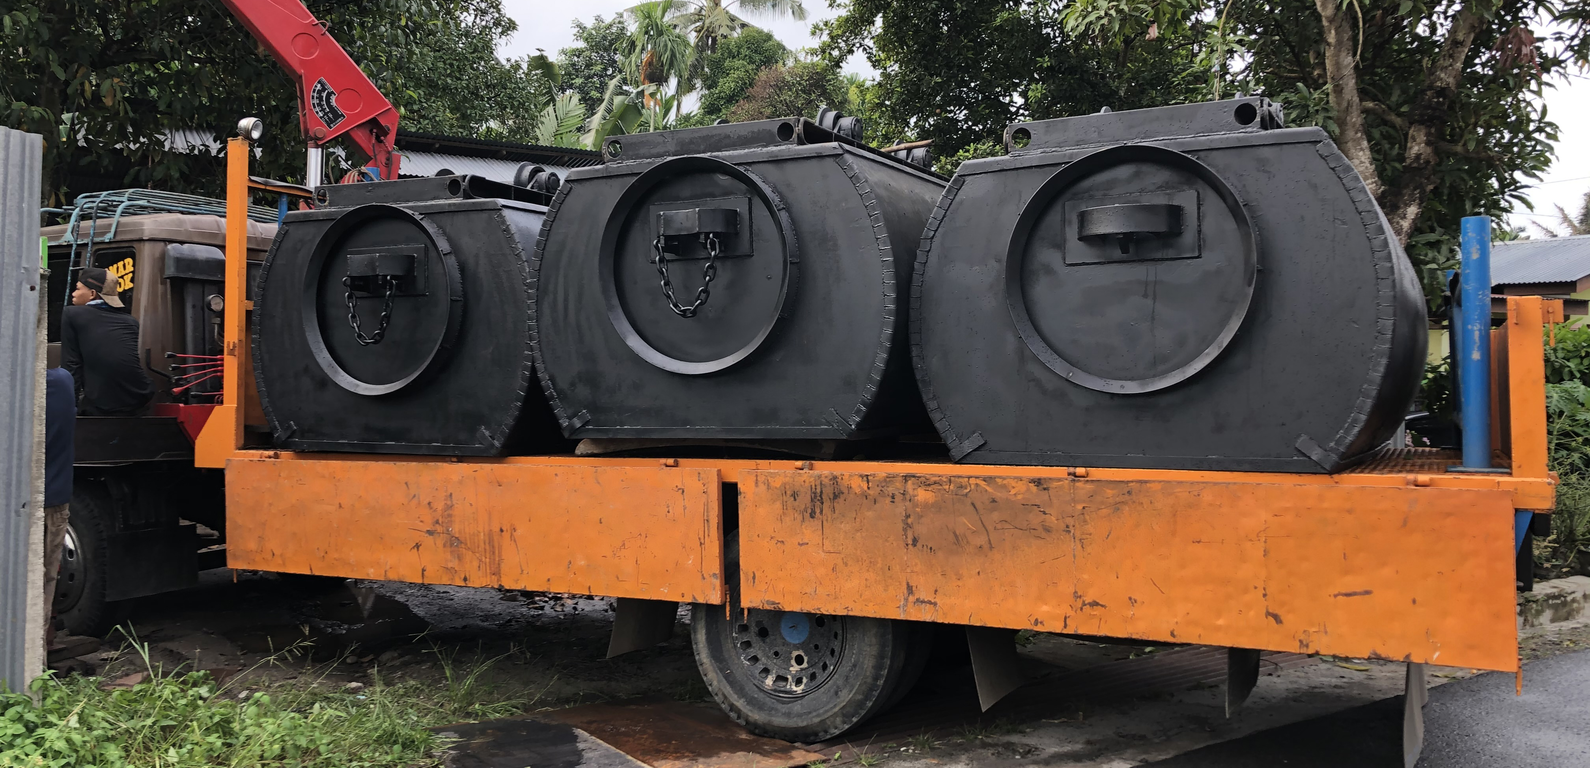
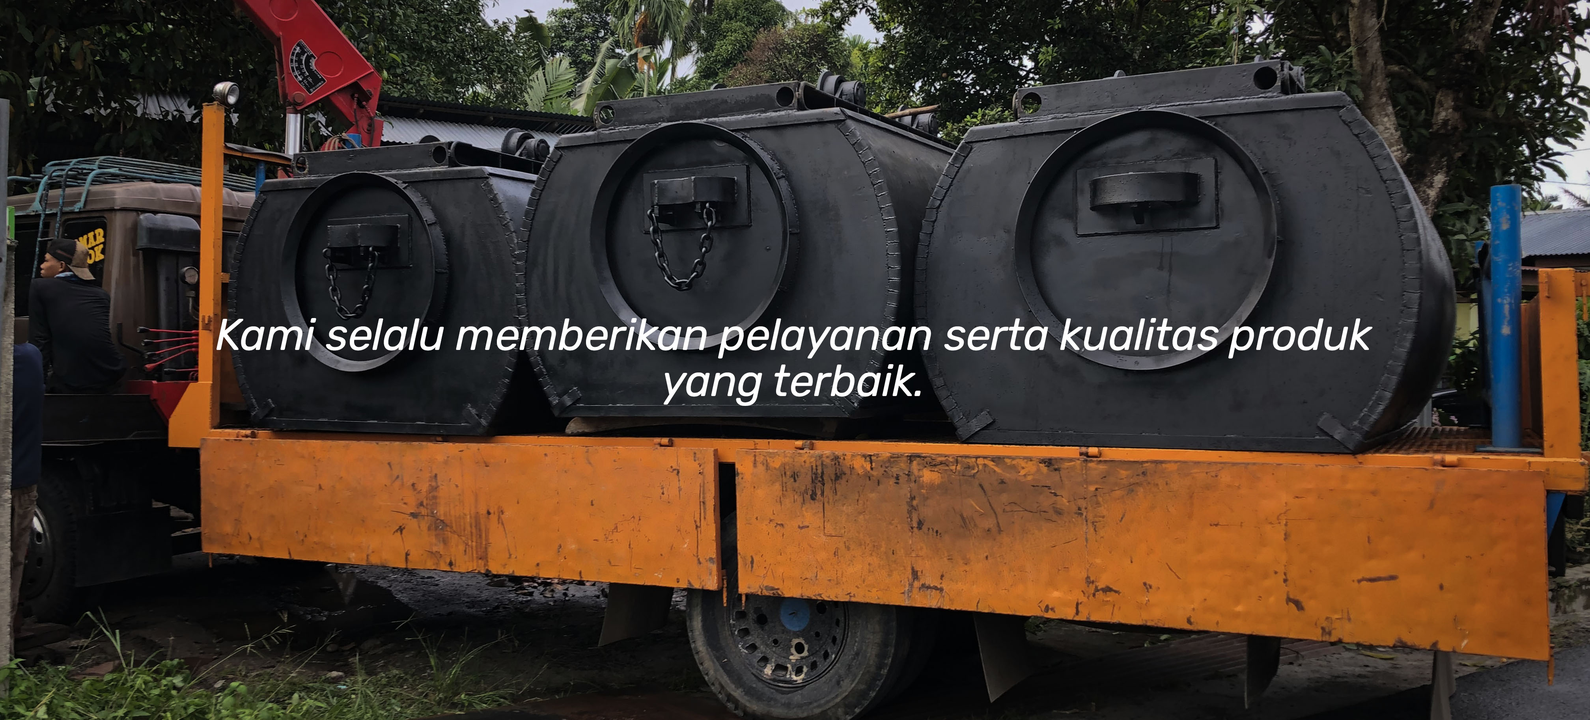
update: home page

diff --git a/resources/views/home/index.blade.php b/resources/views/home/index.blade.php
@@ -5,23 +5,219 @@ keberadaan perusahaan itu telah memegang reputasi besar pada fabrikasi baja untu
 peralatan, pabrik pemecah batu dan industri umum.')
 @section('page_keywords', '')
 @section('content')
+<section id="slider" class="slider-element slider-parallax revslider-wrap min-vh-0">
+    <div class="slider-inner">
+        <div id="rev_slider_k_fullwidth_wrapper" class="rev_slider_wrapper fullwidth-container" style="padding:0px;">
+            <div id="rev_slider_k_fullwidth" class="rev_slider fullwidthbanner" style="display:none;"
+                data-version="5.1.4">
+                <ul>
+                    <li data-transition="fade" data-slotamount="1" data-masterspeed="1500"
+                        data-thumb="{!!asset('webpage/images/ems/home-1.jpg')!!}" data-delay="15000"
+                        data-saveperformance="off" data-title="Unlimited Possibilities">
+                        <!-- MAIN IMAGE -->
+                        <img src="{!!asset('webpage/images/ems/home-1.jpg')!!}" alt="kenburns6"
+                            data-bgposition="center bottom" data-bgpositionend="center top" data-kenburns="on"
+                            data-duration="25000" data-ease="Linear.easeNone" data-scalestart="100" data-scaleend="140"
+                            data-rotatestart="0" data-rotateend="0" data-blurstart="0" data-blurend="0"
+                            data-offsetstart="0 0" data-offsetend="0 0" class="rev-slidebg" data-no-retina>
+                        <!-- LAYERS -->
+
+                        <!-- LAYER NR. 2 -->
+                        <div class="tp-caption ltl tp-resizeme revo-slider-caps-text text-uppercase" data-x="middle"
+                            data-hoffset="0" data-y="top" data-voffset="170"
+                            data-transform_in="x:0;y:150;z:0;rotationZ:0;scaleX:1;scaleY:1;skewX:0;skewY:0;s:800;e:Power4.easeOutQuad;"
+                            data-speed="800" data-start="1000" data-easing="easeOutQuad" data-splitin="none"
+                            data-splitout="none" data-elementdelay="0.01" data-endelementdelay="0.1"
+                            data-endspeed="1000" data-endeasing="Power4.easeIn"
+                            style="z-index: 3; color: #333; white-space: nowrap;">Why Choose Canvas?</div>
+
+                        <div class="tp-caption ltl tp-resizeme revo-slider-emphasis-text p-0 border-0" data-x="middle"
+                            data-hoffset="0" data-y="top" data-voffset="185" data-fontsize="['60','50','50','40']"
+                            data-transform_in="x:0;y:150;z:0;rotationZ:0;scaleX:1;scaleY:1;skewX:0;skewY:0;s:800;e:Power4.easeOutQuad;"
+                            data-speed="800" data-start="1200" data-easing="easeOutQuad" data-splitin="none"
+                            data-splitout="none" data-elementdelay="0.01" data-endelementdelay="0.1"
+                            data-endspeed="1000" data-endeasing="Power4.easeIn"
+                            style="z-index: 3; color: #333; white-space: nowrap;">Unlimited Possibilities</div>
+
+                        <div class="tp-caption ltl tp-resizeme revo-slider-desc-text" data-x="middle" data-hoffset="0"
+                            data-y="top" data-voffset="295"
+                            data-transform_in="x:0;y:150;z:0;rotationZ:0;scaleX:1;scaleY:1;skewX:0;skewY:0;s:800;e:Power4.easeOutQuad;"
+                            data-speed="800" data-lineheight="['30','30','34','26']"
+                            data-width="['750','750','480','360']" data-start="1400" data-easing="easeOutQuad"
+                            data-splitin="none" data-splitout="none" data-elementdelay="0.01" data-endelementdelay="0.1"
+                            data-endspeed="1000" data-textAlign="center" data-endeasing="Power4.easeIn"
+                            style="z-index: 3; color: #333; max-width: 650px; white-space: normal;">Create whatever you
+                            require for your Business to bloom with Tons of Customization Possibilities.</div>
+
+                        <div class="tp-caption ltl tp-resizeme" data-x="middle" data-hoffset="0" data-y="top"
+                            data-voffset="405"
+                            data-transform_in="x:0;y:150;z:0;rotationZ:0;scaleX:1;scaleY:1;skewX:0;skewY:0;s:800;e:Power4.easeOutQuad;"
+                            data-speed="800" data-start="1550" data-easing="easeOutQuad" data-splitin="none"
+                            data-splitout="none" data-elementdelay="0.01" data-endelementdelay="0.1"
+                            data-endspeed="1000" data-endeasing="Power4.easeIn" style="z-index: 3;"><a href="#"
+                                class="button button-border button-large button-rounded text-end m-0"><span>Browse</span><i
+                                    class="icon-angle-right"></i></a></div>
+
+                    </li>
+                    <li data-transition="fade" data-slotamount="1" data-masterspeed="1500"
+                        data-thumb="{!!asset('webpage/images/ems/home-2.jpg')!!}" data-delay="15000"
+                        data-saveperformance="off" data-title="Unlimited Possibilities">
+                        <!-- MAIN IMAGE -->
+                        <img src="{!!asset('webpage/images/ems/home-2.jpg')!!}" alt="kenburns6"
+                            data-bgposition="center bottom" data-bgpositionend="center top" data-kenburns="on"
+                            data-duration="25000" data-ease="Linear.easeNone" data-scalestart="100" data-scaleend="140"
+                            data-rotatestart="0" data-rotateend="0" data-blurstart="0" data-blurend="0"
+                            data-offsetstart="0 0" data-offsetend="0 0" class="rev-slidebg" data-no-retina>
+                        <!-- LAYERS -->
+
+                        <!-- LAYER NR. 2 -->
+                        <div class="tp-caption ltl tp-resizeme revo-slider-caps-text text-uppercase" data-x="middle"
+                            data-hoffset="0" data-y="top" data-voffset="170"
+                            data-transform_in="x:0;y:150;z:0;rotationZ:0;scaleX:1;scaleY:1;skewX:0;skewY:0;s:800;e:Power4.easeOutQuad;"
+                            data-speed="800" data-start="1000" data-easing="easeOutQuad" data-splitin="none"
+                            data-splitout="none" data-elementdelay="0.01" data-endelementdelay="0.1"
+                            data-endspeed="1000" data-endeasing="Power4.easeIn"
+                            style="z-index: 3; color: #333; white-space: nowrap;">Why Choose Canvas?</div>
+
+                        <div class="tp-caption ltl tp-resizeme revo-slider-emphasis-text p-0 border-0" data-x="middle"
+                            data-hoffset="0" data-y="top" data-voffset="185" data-fontsize="['60','50','50','40']"
+                            data-transform_in="x:0;y:150;z:0;rotationZ:0;scaleX:1;scaleY:1;skewX:0;skewY:0;s:800;e:Power4.easeOutQuad;"
+                            data-speed="800" data-start="1200" data-easing="easeOutQuad" data-splitin="none"
+                            data-splitout="none" data-elementdelay="0.01" data-endelementdelay="0.1"
+                            data-endspeed="1000" data-endeasing="Power4.easeIn"
+                            style="z-index: 3; color: #333; white-space: nowrap;">Unlimited Possibilities</div>
+
+                        <div class="tp-caption ltl tp-resizeme revo-slider-desc-text" data-x="middle" data-hoffset="0"
+                            data-y="top" data-voffset="295"
+                            data-transform_in="x:0;y:150;z:0;rotationZ:0;scaleX:1;scaleY:1;skewX:0;skewY:0;s:800;e:Power4.easeOutQuad;"
+                            data-speed="800" data-lineheight="['30','30','34','26']"
+                            data-width="['750','750','480','360']" data-start="1400" data-easing="easeOutQuad"
+                            data-splitin="none" data-splitout="none" data-elementdelay="0.01" data-endelementdelay="0.1"
+                            data-endspeed="1000" data-textAlign="center" data-endeasing="Power4.easeIn"
+                            style="z-index: 3; color: #333; max-width: 650px; white-space: normal;">Create whatever you
+                            require for your Business to bloom with Tons of Customization Possibilities.</div>
+
+                        <div class="tp-caption ltl tp-resizeme" data-x="middle" data-hoffset="0" data-y="top"
+                            data-voffset="405"
+                            data-transform_in="x:0;y:150;z:0;rotationZ:0;scaleX:1;scaleY:1;skewX:0;skewY:0;s:800;e:Power4.easeOutQuad;"
+                            data-speed="800" data-start="1550" data-easing="easeOutQuad" data-splitin="none"
+                            data-splitout="none" data-elementdelay="0.01" data-endelementdelay="0.1"
+                            data-endspeed="1000" data-endeasing="Power4.easeIn" style="z-index: 3;"><a href="#"
+                                class="button button-border button-large button-rounded text-end m-0"><span>Browse</span><i
+                                    class="icon-angle-right"></i></a></div>
+
+                    </li>
+                    <li data-transition="fade" data-slotamount="1" data-masterspeed="1500"
+                        data-thumb="{!!asset('webpage/images/ems/home-4.jpg')!!}" data-delay="15000"
+                        data-saveperformance="off" data-title="Unlimited Possibilities">
+                        <!-- MAIN IMAGE -->
+                        <img src="{!!asset('webpage/images/ems/home-4.jpg')!!}" alt="kenburns6"
+                            data-bgposition="center bottom" data-bgpositionend="center top" data-kenburns="on"
+                            data-duration="25000" data-ease="Linear.easeNone" data-scalestart="100" data-scaleend="140"
+                            data-rotatestart="0" data-rotateend="0" data-blurstart="0" data-blurend="0"
+                            data-offsetstart="0 0" data-offsetend="0 0" class="rev-slidebg" data-no-retina>
+                        <!-- LAYERS -->
+
+                        <!-- LAYER NR. 2 -->
+                        <div class="tp-caption ltl tp-resizeme revo-slider-caps-text text-uppercase" data-x="middle"
+                            data-hoffset="0" data-y="top" data-voffset="170"
+                            data-transform_in="x:0;y:150;z:0;rotationZ:0;scaleX:1;scaleY:1;skewX:0;skewY:0;s:800;e:Power4.easeOutQuad;"
+                            data-speed="800" data-start="1000" data-easing="easeOutQuad" data-splitin="none"
+                            data-splitout="none" data-elementdelay="0.01" data-endelementdelay="0.1"
+                            data-endspeed="1000" data-endeasing="Power4.easeIn"
+                            style="z-index: 3; color: #333; white-space: nowrap;">Why Choose Canvas?</div>
+
+                        <div class="tp-caption ltl tp-resizeme revo-slider-emphasis-text p-0 border-0" data-x="middle"
+                            data-hoffset="0" data-y="top" data-voffset="185" data-fontsize="['60','50','50','40']"
+                            data-transform_in="x:0;y:150;z:0;rotationZ:0;scaleX:1;scaleY:1;skewX:0;skewY:0;s:800;e:Power4.easeOutQuad;"
+                            data-speed="800" data-start="1200" data-easing="easeOutQuad" data-splitin="none"
+                            data-splitout="none" data-elementdelay="0.01" data-endelementdelay="0.1"
+                            data-endspeed="1000" data-endeasing="Power4.easeIn"
+                            style="z-index: 3; color: #333; white-space: nowrap;">Unlimited Possibilities</div>
+
+                        <div class="tp-caption ltl tp-resizeme revo-slider-desc-text" data-x="middle" data-hoffset="0"
+                            data-y="top" data-voffset="295"
+                            data-transform_in="x:0;y:150;z:0;rotationZ:0;scaleX:1;scaleY:1;skewX:0;skewY:0;s:800;e:Power4.easeOutQuad;"
+                            data-speed="800" data-lineheight="['30','30','34','26']"
+                            data-width="['750','750','480','360']" data-start="1400" data-easing="easeOutQuad"
+                            data-splitin="none" data-splitout="none" data-elementdelay="0.01" data-endelementdelay="0.1"
+                            data-endspeed="1000" data-textAlign="center" data-endeasing="Power4.easeIn"
+                            style="z-index: 3; color: #333; max-width: 650px; white-space: normal;">Create whatever you
+                            require for your Business to bloom with Tons of Customization Possibilities.</div>
+
+                        <div class="tp-caption ltl tp-resizeme" data-x="middle" data-hoffset="0" data-y="top"
+                            data-voffset="405"
+                            data-transform_in="x:0;y:150;z:0;rotationZ:0;scaleX:1;scaleY:1;skewX:0;skewY:0;s:800;e:Power4.easeOutQuad;"
+                            data-speed="800" data-start="1550" data-easing="easeOutQuad" data-splitin="none"
+                            data-splitout="none" data-elementdelay="0.01" data-endelementdelay="0.1"
+                            data-endspeed="1000" data-endeasing="Power4.easeIn" style="z-index: 3;"><a href="#"
+                                class="button button-border button-large button-rounded text-end m-0"><span>Browse</span><i
+                                    class="icon-angle-right"></i></a></div>
+
+                    </li>
+                    <li data-transition="fade" data-slotamount="1" data-masterspeed="1500"
+                        data-thumb="{!!asset('webpage/images/ems/home-5.jpg')!!}" data-delay="15000"
+                        data-saveperformance="off" data-title="Unlimited Possibilities">
+                        <!-- MAIN IMAGE -->
+                        <img src="{!!asset('webpage/images/ems/home-5.jpg')!!}" alt="kenburns6"
+                            data-bgposition="center bottom" data-bgpositionend="center top" data-kenburns="on"
+                            data-duration="25000" data-ease="Linear.easeNone" data-scalestart="100" data-scaleend="140"
+                            data-rotatestart="0" data-rotateend="0" data-blurstart="0" data-blurend="0"
+                            data-offsetstart="0 0" data-offsetend="0 0" class="rev-slidebg" data-no-retina>
+                        <!-- LAYERS -->
+
+                        <!-- LAYER NR. 2 -->
+                        <div class="tp-caption ltl tp-resizeme revo-slider-caps-text text-uppercase" data-x="middle"
+                            data-hoffset="0" data-y="top" data-voffset="170"
+                            data-transform_in="x:0;y:150;z:0;rotationZ:0;scaleX:1;scaleY:1;skewX:0;skewY:0;s:800;e:Power4.easeOutQuad;"
+                            data-speed="800" data-start="1000" data-easing="easeOutQuad" data-splitin="none"
+                            data-splitout="none" data-elementdelay="0.01" data-endelementdelay="0.1"
+                            data-endspeed="1000" data-endeasing="Power4.easeIn"
+                            style="z-index: 3; color: #333; white-space: nowrap;">Why Choose Canvas?</div>
+
+                        <div class="tp-caption ltl tp-resizeme revo-slider-emphasis-text p-0 border-0" data-x="middle"
+                            data-hoffset="0" data-y="top" data-voffset="185" data-fontsize="['60','50','50','40']"
+                            data-transform_in="x:0;y:150;z:0;rotationZ:0;scaleX:1;scaleY:1;skewX:0;skewY:0;s:800;e:Power4.easeOutQuad;"
+                            data-speed="800" data-start="1200" data-easing="easeOutQuad" data-splitin="none"
+                            data-splitout="none" data-elementdelay="0.01" data-endelementdelay="0.1"
+                            data-endspeed="1000" data-endeasing="Power4.easeIn"
+                            style="z-index: 3; color: #333; white-space: nowrap;">Unlimited Possibilities</div>
+
+                        <div class="tp-caption ltl tp-resizeme revo-slider-desc-text" data-x="middle" data-hoffset="0"
+                            data-y="top" data-voffset="295"
+                            data-transform_in="x:0;y:150;z:0;rotationZ:0;scaleX:1;scaleY:1;skewX:0;skewY:0;s:800;e:Power4.easeOutQuad;"
+                            data-speed="800" data-lineheight="['30','30','34','26']"
+                            data-width="['750','750','480','360']" data-start="1400" data-easing="easeOutQuad"
+                            data-splitin="none" data-splitout="none" data-elementdelay="0.01" data-endelementdelay="0.1"
+                            data-endspeed="1000" data-textAlign="center" data-endeasing="Power4.easeIn"
+                            style="z-index: 3; color: #333; max-width: 650px; white-space: normal;">Create whatever you
+                            require for your Business to bloom with Tons of Customization Possibilities.</div>
+
+                        <div class="tp-caption ltl tp-resizeme" data-x="middle" data-hoffset="0" data-y="top"
+                            data-voffset="405"
+                            data-transform_in="x:0;y:150;z:0;rotationZ:0;scaleX:1;scaleY:1;skewX:0;skewY:0;s:800;e:Power4.easeOutQuad;"
+                            data-speed="800" data-start="1550" data-easing="easeOutQuad" data-splitin="none"
+                            data-splitout="none" data-elementdelay="0.01" data-endelementdelay="0.1"
+                            data-endspeed="1000" data-endeasing="Power4.easeIn" style="z-index: 3;"><a href="#"
+                                class="button button-border button-large button-rounded text-end m-0"><span>Browse</span><i
+                                    class="icon-angle-right"></i></a></div>
+
+                    </li>
+                </ul>
+            </div>
+        </div>
+    </div>
+</section>
 <section id="slider" class="slider-element boxed-slider">
-
     <div class="container clearfix">
-
         <div id="oc-slider" class="owl-carousel carousel-widget" data-items="1" data-loop="true" data-nav="true"
             data-autoplay="5000" data-animate-in="fadeIn" data-animate-out="fadeOut" data-speed="800">
-
             <a href="#"><img src="{!!asset('webpage/images/ems/home-1.jpg')!!}" alt="Slider"></a>
             <a href="#"><img src="{!!asset('webpage/images/ems/home-2.jpg')!!}" alt="Slider"></a>
             <a href="#"><img src="{!!asset('webpage/images/ems/home-4.jpg')!!}" alt="Slider"></a>
             <a href="#"><img src="{!!asset('webpage/images/ems/home-5.jpg')!!}" alt="Slider"></a>
-
         </div>
-
-
     </div>
-
 </section>
 
 <section id="content">
@@ -40,20 +236,20 @@ peralatan, pabrik pemecah batu dan industri umum.')
             </div>
             <div class="row clearfix">
 
-                <div class="col-lg-4 offset-1 center bottommargin">
+                <div class="col-lg-4 offset-lg-1 center bottommargin">
                     <i class="i-plain color i-large icon-line2-screen-desktop inline-block"
                         style="margin-bottom: 20px;"></i>
                     <div class="heading-block border-bottom-0" style="margin-bottom: 15px;">
-                        <h4>Visi</h4>
+                        <h2>Visi</h2>
                     </div>
                     <p>Menjadi perusahaan kontraktor dan supplier untuk Palm oil Mill, Stone Crusher, Mining dan Oil &
                         Gas yang terbaik di Indonesia.</p>
                 </div>
 
-                <div class="col-lg-4 offset-1 bottommargin" style="text-align: center;">
+                <div class="col-lg-4 offset-lg-1 bottommargin" style="text-align: center;">
                     <i class="i-plain color i-large icon-line2-energy inline-block" style="margin-bottom: 20px;"></i>
                     <div class="heading-block border-bottom-0" style="margin-bottom: 15px;">
-                        <h4>Misi</h4>
+                        <h2>Misi</h2>
                     </div>
                     <p>
                         <ol type="disc" style="text-align: left;">
@@ -63,6 +259,52 @@ peralatan, pabrik pemecah batu dan industri umum.')
                             <li>Menempatkan SDM yang kompeten untuk jabatan yang tepat </li>
                         </ol>
                     </p>
+                </div>
+
+            </div>
+            <div class="row clearfix justify-content-center">
+
+                <div class="col-lg-10 bottommargin">
+                    <div class="heading-block border-bottom-0" style="margin-bottom: 1.5rem;">
+                        <h2>Budaya Perusahaan</h2>
+                        <hr>
+                    </div>
+                    <div class="row mt-4">
+                        <div class="col-lg-3 text-left">
+                            <h3 style="margin-bottom:0;">Integritas</h3>
+                            <p>Kejujuran, terbuka, dan dapat dipercaya dalam melaksanakan tugas dan tanggung jawab yang
+                                diberikan.</p>
+                        </div>
+                        <div class="col-lg-3 text-left">
+                            <h3 style="margin-bottom:0;">Komitmen</h3>
+                            <p>Loyal dan setia terhadap perusahaan serta memberikan yang terbaik untuk perusahaan dan
+                                pelanggan</p>
+                        </div>
+                        <div class="col-lg-3 text-left">
+                            <h3 style="margin-bottom:0;">Kerjasama Team</h3>
+                            <p>Sepenuh hati dan tuntas menjalankan tugas dan tanggung jawab yang diberikan</p>
+                        </div>
+                        <div class="col-lg-3 text-left">
+                            <h3 style="margin-bottom:0;">Bertanggung Jawab</h3>
+                            <p>Terbuka dan memiliki keinginan yang kuat untuk memperbaiki diri, cara kerja, produk, jasa
+                                dan pelayanan dengan tujuan menghasilkan karya yang lebih baik lagi kedepannya</p>
+                        </div>
+                        <div class="col-lg-3 text-left">
+                            <h3 style="margin-bottom:0;">Loyalitas</h3>
+                            <p>Saling bekerja sama, menghormati, dan menghargai sesama rekan kerja untuk mencapai visi
+                                dan misi perusahaan</p>
+                        </div>
+                        <div class="col-lg-3 text-left">
+                            <h3 style="margin-bottom:0;">Inovasi</h3>
+                            <p>Fokus terhadap kualitas produk dan pelayanan serta optimalisasi penggunaan waktu dan
+                                biaya agar mampu meningkatkan daya saing perusahaan</p>
+                        </div>
+                        <div class="col-lg-3 text-left">
+                            <h3 style="margin-bottom:0;">Efisiensi</h3>
+                            <p>Bersungguh-sungguh dalam melaksanakan dan menyelesaikan tugas yang diberikan dengan baik
+                                dan tepat waktu</p>
+                        </div>
+                    </div>
                 </div>
 
             </div>

diff --git a/resources/views/welcome.blade.php b/resources/views/welcome.blade.php
@@ -24,12 +24,53 @@
     <link rel="stylesheet" href="{!!asset('webpage/css/components/bs-rating.css')!!}" type="text/css" />
     <script src="https://kit.fontawesome.com/98c197c895.js" crossorigin="anonymous"></script>
 
+    <!-- SLIDER REVOLUTION 5.x CSS SETTINGS -->
+    <link rel="stylesheet" type="text/css" href="{!!asset('webpage/include/rs-plugin/css/settings.css')!!}"
+        media="screen" />
+    <link rel="stylesheet" type="text/css" href="{!!asset('webpage/include/rs-plugin/css/layers.css')!!}">
+    <link rel="stylesheet" type="text/css" href="{!!asset('webpage/include/rs-plugin/css/navigation.css')!!}">
+
     <!-- Document Description
 	============================================= -->
     <title>Elang Mas Surya - @yield('title')</title>
     <meta name="description" content="@yield('page_description')" />
     <meta name="keywords" content="elangmassurya, @yield('page_keywords')" />
 
+    <style>
+        <style>.revo-slider-emphasis-text {
+            font-size: 64px;
+            font-weight: 700;
+            letter-spacing: -1px;
+            font-family: 'Poppins', sans-serif;
+            padding: 15px 20px;
+            border-top: 2px solid #FFF;
+            border-bottom: 2px solid #FFF;
+        }
+
+        .revo-slider-desc-text {
+            font-size: 20px;
+            font-family: 'Lato', sans-serif;
+            width: 650px;
+            text-align: center;
+            line-height: 1.5;
+        }
+
+        .revo-slider-caps-text {
+            font-size: 16px;
+            font-weight: 400;
+            letter-spacing: 3px;
+            font-family: 'Poppins', sans-serif;
+        }
+
+        .tp-video-play-button {
+            display: none !important;
+        }
+
+        .tp-caption {
+            white-space: nowrap;
+        }
+
+    </style>
 </head>
 
 <body class="stretched">
@@ -182,6 +223,19 @@
     <!-- Footer Scripts
 	============================================= -->
     <script src="{!!asset('webpage/js/functions.js')!!}"></script>
+    <script src="{!!asset('webpage/include/rs-plugin/js/jquery.themepunch.tools.min.js')!!}"></script>
+    <script src="{!!asset('webpage/include/rs-plugin/js/jquery.themepunch.revolution.min.js')!!}"></script>
+    <script src="{!!asset('webpage/include/rs-plugin/js/extensions/revolution.extension.video.min.js')!!}"></script>
+    <script src="{!!asset('webpage/include/rs-plugin/js/extensions/revolution.extension.slideanims.min.js')!!}">
+    </script>
+    <script src="{!!asset('webpage/include/rs-plugin/js/extensions/revolution.extension.actions.min.js')!!}"></script>
+    <script src="{!!asset('webpage/include/rs-plugin/js/extensions/revolution.extension.layeranimation.min.js')!!}">
+    </script>
+    <script src="{!!asset('webpage/include/rs-plugin/js/extensions/revolution.extension.kenburn.min.js')!!}"></script>
+    <script src="{!!asset('webpage/include/rs-plugin/js/extensions/revolution.extension.navigation.min.js')!!}">
+    </script>
+    <script src="{!!asset('webpage/include/rs-plugin/js/extensions/revolution.extension.migration.min.js')!!}"></script>
+    <script src="{!!asset('webpage/include/rs-plugin/js/extensions/revolution.extension.parallax.min.js')!!}"></script>
     <script>
         $("#input-7").rating({
             containerClass: 'is-heart',

diff --git a/routes/web.php b/routes/web.php
@@ -23,10 +23,6 @@ Route::prefix('sc/dev')->group(function () {
 Route::get('/linkedin', function () {
     return Redirect::to('https://linkedin.com/company/');
 });
-
-Route::get('/', function () {
-    return view('welcome');
-});
 Route::get('/instagram', function () {
     return Redirect::to('http://www.instagram.com/ptelangmas');
 });
